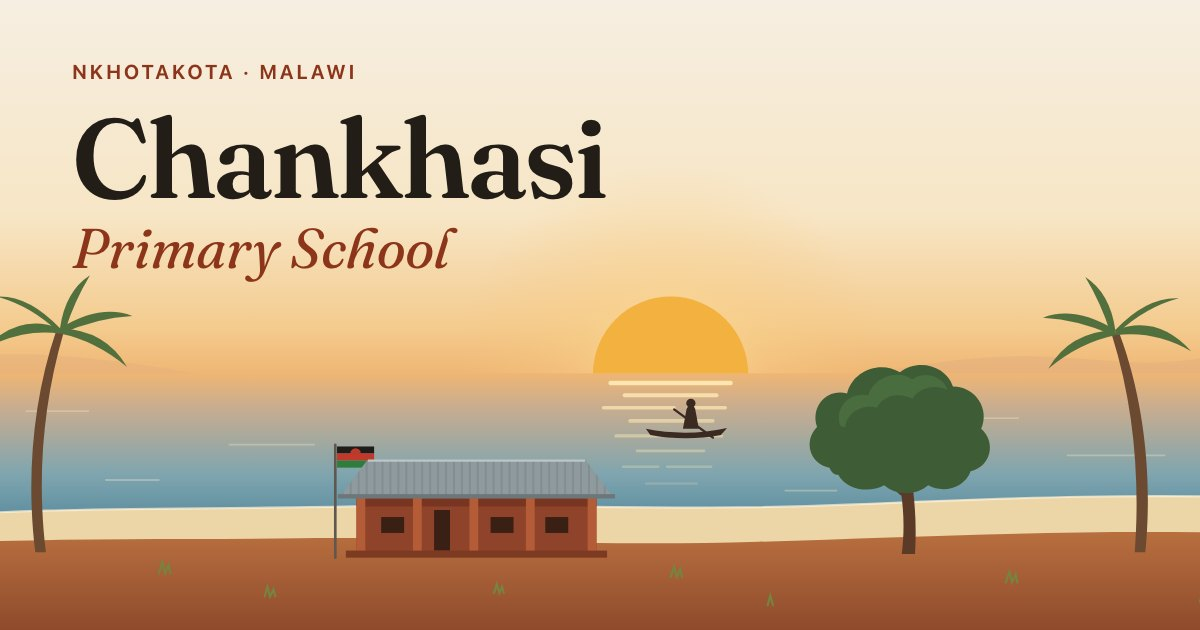
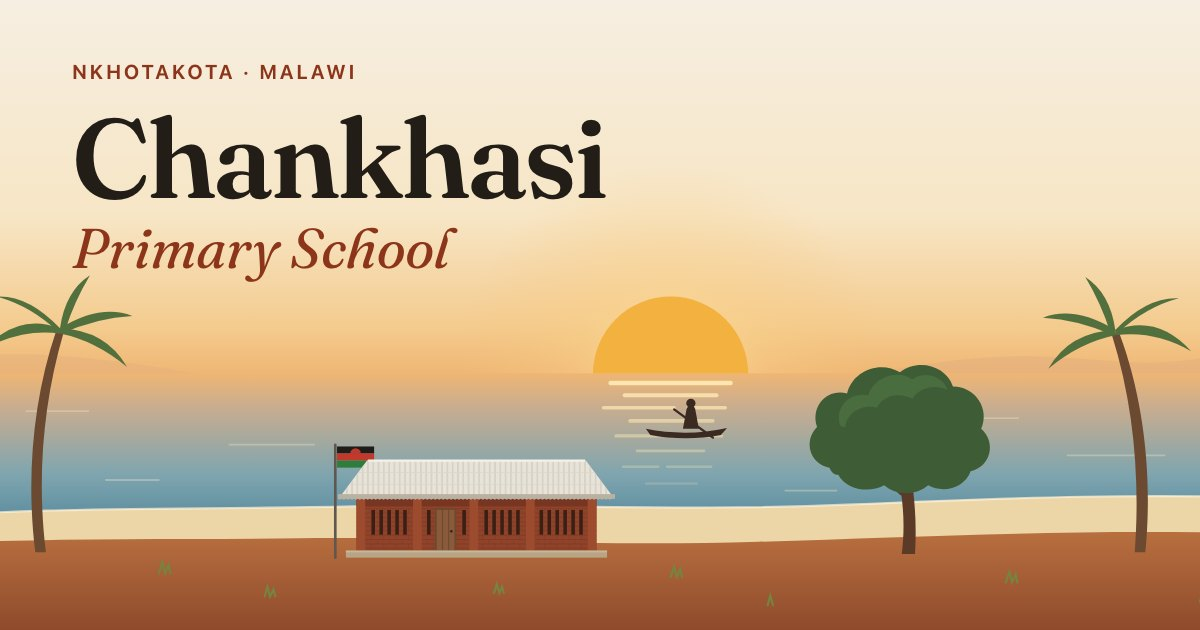
Andrew's story, extended timeline and true-to-life illustrations
Open the story with Father Andrew Banda as a boy with a dream, extend the
timeline to Canon Hunter Secondary School and the boarding houses, drop
the teachers' houses (a different Chankhazi), and update friends and
contacts from the school's own pages. Redraw the buildings in all five
illustrations to match the real school: pale fibre-cement roofs, exposed
brick with ventilation slots, brick-framed blackboards, painted times
tables and blue chairs.

Changed region(s): [[0.2775, 0.7238, 0.5242, 0.9048]]

diff --git a/index.html b/index.html
@@ -23,8 +23,8 @@
 <meta name="twitter:card" content="summary_large_image">
 <script>document.documentElement.className += " js";</script>
 <link rel="preload" href="assets/fonts/fraunces.woff2" as="font" type="font/woff2" crossorigin>
-<link rel="stylesheet" href="assets/site.css?v=9">
-<script src="assets/site.js?v=9" defer></script>
+<link rel="stylesheet" href="assets/site.css?v=10">
+<script src="assets/site.js?v=10" defer></script>
 </head>
 <body>
 <a class="skip" href="#main">Skip to content</a>
@@ -63,131 +63,7 @@
     </p>
   </div>
   <div class="hero-art" aria-hidden="true">
-    <svg viewBox="0 380 1600 520" preserveAspectRatio="xMidYMax slice" focusable="false">
-      <defs>
-        <radialGradient id="h-glow" cx="880" cy="610" r="240" gradientUnits="userSpaceOnUse">
-          <stop offset="0" stop-color="#fde3a6" stop-opacity=".95"/>
-          <stop offset=".45" stop-color="#f9cf86" stop-opacity=".42"/>
-          <stop offset="1" stop-color="#f6c47a" stop-opacity="0"/>
-        </radialGradient>
-        <linearGradient id="h-lake" x1="0" y1="609" x2="0" y2="800" gradientUnits="userSpaceOnUse">
-          <stop offset="0" stop-color="#efb674"/>
-          <stop offset=".2" stop-color="#c9ad8f"/>
-          <stop offset=".6" stop-color="#7fa5af"/>
-          <stop offset="1" stop-color="#4b8198"/>
-        </linearGradient>
-        <linearGradient id="h-ground" x1="0" y1="790" x2="0" y2="900" gradientUnits="userSpaceOnUse">
-          <stop offset="0" stop-color="#b86f3f"/>
-          <stop offset="1" stop-color="#8e4a2b"/>
-        </linearGradient>
-        <pattern id="h-corr" width="9" height="40" patternUnits="userSpaceOnUse">
-          <path d="M4.5 0v40" stroke="#7d888c" stroke-width="1.6"/>
-        </pattern>
-      </defs>
-
-      <g class="h-sun">
-        <circle cx="880" cy="610" r="240" fill="url(#h-glow)"/>
-        <circle cx="880" cy="610" r="88" fill="#f3b140"/>
-      </g>
-      <g class="h-birds" fill="none" stroke="#7a6452" stroke-width="2.4" stroke-linecap="round" stroke-linejoin="round">
-        <path d="M612 468q9-8 18 0q9-8 18 0"/>
-        <path d="M662 492q6-5 12 0q6-5 12 0"/>
-        <path d="M1226 452q8-7 16 0q8-7 16 0"/>
-      </g>
-
-      <path fill="#e2ad80" opacity=".5" d="M1100 610c64-10 124-22 196-20s112 12 172 4 96-12 132-8v24z"/>
-      <path fill="#e2ad80" opacity=".4" d="M0 598c64-8 126-14 196-8s104 12 150 20H0z"/>
-
-      <rect x="0" y="609" width="1600" height="200" fill="url(#h-lake)"/>
-
-      <g class="h-glitter" fill="none" stroke="#fde8b2" stroke-linecap="round">
-        <path d="M812 620h136" stroke-width="5" opacity=".95"/>
-        <path d="M828 634h104" stroke-width="4.5" opacity=".85"/>
-        <path d="M804 648h80M900 648h42" stroke-width="4" opacity=".72"/>
-        <path d="M834 663h94" stroke-width="4" opacity=".6"/>
-        <path d="M818 680h50M882 680h56" stroke-width="3.5" opacity=".48"/>
-        <path d="M842 697h76" stroke-width="3" opacity=".38"/>
-        <path d="M826 715h40M876 715h50" stroke-width="3" opacity=".28"/>
-        <path d="M852 734h58" stroke-width="2.5" opacity=".2"/>
-      </g>
-      <g fill="none" stroke="#f8e4c2" stroke-linecap="round" stroke-width="2" opacity=".35">
-        <path d="M150 652h70M380 690h96M1190 660h84M1330 702h110M600 748h64M1010 742h58M240 730h60"/>
-      </g>
-
-      <g class="h-canoe" fill="#3b2a21">
-        <path d="M852 672c30 6 62 6 92-1l-7 8c-26 5-54 5-80 0z"/>
-        <path d="M894 672l4-22c1-5 9-5 10 0l4 22z"/>
-        <circle cx="903" cy="643" r="5.2"/>
-        <path d="M884 650l44 32" fill="none" stroke="#3b2a21" stroke-width="2.6" stroke-linecap="round"/>
-      </g>
-
-      <path fill="#ecd5a6" d="M0 774c160-14 330-10 520-14s380 6 560-2 360-14 520-6v60H0z"/>
-      <path fill="none" stroke="#fff4dc" stroke-width="2.5" opacity=".7" d="M0 774c160-14 330-10 520-14s380 6 560-2 360-14 520-6"/>
-      <path fill="url(#h-ground)" d="M0 806c140-12 300-8 460-10s320 10 520 4 380-16 620-8v108H0z"/>
-
-      <g class="h-palm">
-        <path fill="#6b4a31" d="M160 812c-10-80-4-170 24-252l8 3c-24 82-30 168-20 249z"/>
-        <g fill="#52703d">
-          <path d="M188 558q-48-18-86 24q42-24 86-18z"/>
-          <path d="M188 558q-36-38-72-36q38 10 70 40z"/>
-          <path d="M188 558q6-42 34-60q-18 30-28 62z"/>
-          <path d="M188 558q46-28 82-14q-40 2-80 20z"/>
-          <path d="M188 558q52 2 76 44q-36-30-76-38z"/>
-        </g>
-      </g>
-      <g class="h-palm">
-        <path fill="#6b4a31" d="M1418 812c8-80 0-170-30-250l-8 3c26 82 32 168 26 247z"/>
-        <g fill="#52703d">
-          <path d="M1384 560q48-18 86 24q-42-24-86-18z"/>
-          <path d="M1384 560q36-38 72-36q-38 10-70 40z"/>
-          <path d="M1384 560q-6-42-34-60q18 30 28 62z"/>
-          <path d="M1384 560q-46-28-82-14q40 2 80 20z"/>
-          <path d="M1384 560q-52 2-76 44q36-30 76-38z"/>
-        </g>
-      </g>
-
-      <g class="h-tree">
-        <path fill="#5b3b27" d="M1142 814c4-32 2-64-6-96l15-2c6 32 8 66 6 98z"/>
-        <path d="M1142 744l-28-26M1148 732l24-24" stroke="#5b3b27" stroke-width="7" stroke-linecap="round"/>
-        <path fill="#3e5d36" d="M1060 716c-22-4-30-30-14-46-8-24 12-44 34-38 6-26 38-38 60-24 20-16 52-8 60 16 26 0 42 26 32 48 18 16 10 44-12 48-6 18-30 26-48 16-14 12-36 12-50 0-18 10-44 4-52-12-6 0-8-4-10-8z"/>
-        <path fill="#4c7042" opacity=".85" d="M1072 668c-6-22 12-38 32-34 6-20 32-30 50-18 14-10 34-4 40 12-18-8-34 0-40 10-14-8-34-4-40 10-18-4-34 6-36 22-4 0-5-1-6-2z"/>
-      </g>
-
-      <g class="h-flag">
-        <path d="M500 818V690" stroke="#5f5750" stroke-width="3" stroke-linecap="round"/>
-        <rect x="502" y="692" width="42" height="8" fill="#1f1c1a"/>
-        <path d="M517 700a6 6 0 0 1 12 0z" fill="#c1392b"/>
-        <rect x="502" y="700" width="42" height="8" fill="#c1392b"/>
-        <rect x="502" y="708" width="42" height="8" fill="#2f7d3c"/>
-      </g>
-
-      <g class="h-school">
-        <rect x="524" y="744" width="272" height="68" fill="#8f432a"/>
-        <g fill="#3a1f15">
-          <rect x="552" y="772" width="26" height="18"/>
-          <rect x="612" y="764" width="18" height="46"/>
-          <rect x="676" y="772" width="26" height="18"/>
-          <rect x="738" y="772" width="26" height="18"/>
-        </g>
-        <rect x="524" y="751" width="272" height="9" fill="#5e2616" opacity=".45"/>
-        <g fill="#b45c37">
-          <rect x="524" y="748" width="10" height="64"/>
-          <rect x="588" y="748" width="10" height="64"/>
-          <rect x="652" y="748" width="10" height="64"/>
-          <rect x="716" y="748" width="10" height="64"/>
-          <rect x="786" y="748" width="10" height="64"/>
-        </g>
-        <path d="M506 748h308l-30-40H536z" fill="#8f9a9e"/>
-        <path d="M506 748h308l-30-40H536z" fill="url(#h-corr)"/>
-        <path d="M537 708h246" stroke="#bcc5c7" stroke-width="2.5"/>
-        <rect x="503" y="746" width="314" height="5" fill="#6d777a"/>
-        <rect x="512" y="810" width="296" height="8" fill="#7d3a22"/>
-      </g>
-
-      <g fill="none" stroke="#76843f" stroke-width="2.4" stroke-linecap="round">
-        <path d="M300 836l4-13 3 13 4-10 2 10M420 862l3-11 3 11 4-8 2 8M880 840l4-12 3 12 4-9 2 9M990 872l3-11 3 11M1260 846l4-12 3 12 4-9 2 9M1480 868l3-11 3 11 3-8 2 8M84 858l4-12 3 12M680 858l3-10 3 10 3-7 2 7"/>
-      </g>
-    </svg>
+    <svg viewBox="0 380 1600 520" preserveAspectRatio="xMidYMax slice" focusable="false"><defs><radialGradient id="h-glow" cx="880" cy="610" r="240" gradientUnits="userSpaceOnUse"><stop offset="0" stop-color="#fde3a6" stop-opacity=".95"/><stop offset=".45" stop-color="#f9cf86" stop-opacity=".42"/><stop offset="1" stop-color="#f6c47a" stop-opacity="0"/></radialGradient><linearGradient id="h-lake" x1="0" y1="609" x2="0" y2="800" gradientUnits="userSpaceOnUse"><stop offset="0" stop-color="#efb674"/><stop offset=".2" stop-color="#c9ad8f"/><stop offset=".6" stop-color="#7fa5af"/><stop offset="1" stop-color="#4b8198"/></linearGradient><linearGradient id="h-ground" x1="0" y1="790" x2="0" y2="900" gradientUnits="userSpaceOnUse"><stop offset="0" stop-color="#b86f3f"/><stop offset="1" stop-color="#8e4a2b"/></linearGradient><pattern id="h-corr" width="6" height="40" patternUnits="userSpaceOnUse"><path d="M3 0v40" stroke="#cfc9bb" stroke-width="1.3"/></pattern></defs><g class="h-sun"><circle cx="880" cy="610" r="240" fill="url(#h-glow)"/><circle cx="880" cy="610" r="88" fill="#f3b140"/></g><g class="h-birds" fill="none" stroke="#7a6452" stroke-width="2.4" stroke-linecap="round" stroke-linejoin="round"><path d="M612 468q9-8 18 0q9-8 18 0"/><path d="M662 492q6-5 12 0q6-5 12 0"/><path d="M1226 452q8-7 16 0q8-7 16 0"/></g><path fill="#e2ad80" opacity=".5" d="M1100 610c64-10 124-22 196-20s112 12 172 4 96-12 132-8v24z"/><path fill="#e2ad80" opacity=".4" d="M0 598c64-8 126-14 196-8s104 12 150 20H0z"/><rect x="0" y="609" width="1600" height="200" fill="url(#h-lake)"/><g class="h-glitter" fill="none" stroke="#fde8b2" stroke-linecap="round"><path d="M812 620h136" stroke-width="5" opacity=".95"/><path d="M828 634h104" stroke-width="4.5" opacity=".85"/><path d="M804 648h80M900 648h42" stroke-width="4" opacity=".72"/><path d="M834 663h94" stroke-width="4" opacity=".6"/><path d="M818 680h50M882 680h56" stroke-width="3.5" opacity=".48"/><path d="M842 697h76" stroke-width="3" opacity=".38"/><path d="M826 715h40M876 715h50" stroke-width="3" opacity=".28"/><path d="M852 734h58" stroke-width="2.5" opacity=".2"/></g><g fill="none" stroke="#f8e4c2" stroke-linecap="round" stroke-width="2" opacity=".35"><path d="M150 652h70M380 690h96M1190 660h84M1330 702h110M600 748h64M1010 742h58M240 730h60"/></g><g class="h-canoe" fill="#3b2a21"><path d="M852 672c30 6 62 6 92-1l-7 8c-26 5-54 5-80 0z"/><path d="M894 672l4-22c1-5 9-5 10 0l4 22z"/><circle cx="903" cy="643" r="5.2"/><path d="M884 650l44 32" fill="none" stroke="#3b2a21" stroke-width="2.6" stroke-linecap="round"/></g><path fill="#ecd5a6" d="M0 774c160-14 330-10 520-14s380 6 560-2 360-14 520-6v60H0z"/><path fill="none" stroke="#fff4dc" stroke-width="2.5" opacity=".7" d="M0 774c160-14 330-10 520-14s380 6 560-2 360-14 520-6"/><path fill="url(#h-ground)" d="M0 806c140-12 300-8 460-10s320 10 520 4 380-16 620-8v108H0z"/><g class="h-palm"><path fill="#6b4a31" d="M160 812c-10-80-4-170 24-252l8 3c-24 82-30 168-20 249z"/><g fill="#52703d"><path d="M188 558q-48-18-86 24q42-24 86-18z"/><path d="M188 558q-36-38-72-36q38 10 70 40z"/><path d="M188 558q6-42 34-60q-18 30-28 62z"/><path d="M188 558q46-28 82-14q-40 2-80 20z"/><path d="M188 558q52 2 76 44q-36-30-76-38z"/></g></g><g class="h-palm"><path fill="#6b4a31" d="M1418 812c8-80 0-170-30-250l-8 3c26 82 32 168 26 247z"/><g fill="#52703d"><path d="M1384 560q48-18 86 24q-42-24-86-18z"/><path d="M1384 560q36-38 72-36q-38 10-70 40z"/><path d="M1384 560q-6-42-34-60q18 30 28 62z"/><path d="M1384 560q-46-28-82-14q40 2 80 20z"/><path d="M1384 560q-52 2-76 44q36-30 76-38z"/></g></g><g class="h-tree"><path fill="#5b3b27" d="M1142 814c4-32 2-64-6-96l15-2c6 32 8 66 6 98z"/><path d="M1142 744l-28-26M1148 732l24-24" stroke="#5b3b27" stroke-width="7" stroke-linecap="round"/><path fill="#3e5d36" d="M1060 716c-22-4-30-30-14-46-8-24 12-44 34-38 6-26 38-38 60-24 20-16 52-8 60 16 26 0 42 26 32 48 18 16 10 44-12 48-6 18-30 26-48 16-14 12-36 12-50 0-18 10-44 4-52-12-6 0-8-4-10-8z"/><path fill="#4c7042" opacity=".85" d="M1072 668c-6-22 12-38 32-34 6-20 32-30 50-18 14-10 34-4 40 12-18-8-34 0-40 10-14-8-34-4-40 10-18-4-34 6-36 22-4 0-5-1-6-2z"/></g><g class="h-flag"><path d="M500 818V690" stroke="#5f5750" stroke-width="3" stroke-linecap="round"/><rect x="502" y="692" width="42" height="8" fill="#1f1c1a"/><path d="M517 700a6 6 0 0 1 12 0z" fill="#c1392b"/><rect x="502" y="700" width="42" height="8" fill="#c1392b"/><rect x="502" y="708" width="42" height="8" fill="#2f7d3c"/></g><g class="h-school"><rect x="524" y="744" width="272" height="68" fill="#8f432a"/><path d="M524 762.5h272M524 767.5h272M524 772.5h272M524 777.5h272M524 782.5h272M524 787.5h272M524 792.5h272M524 797.5h272M524 802.5h272M524 807.5h272" stroke="#7a3520" stroke-width="1" opacity=".55"/><path d="M527 762.5v5M541 762.5v5M555 762.5v5M569 762.5v5M583 762.5v5M597 762.5v5M611 762.5v5M625 762.5v5M639 762.5v5M653 762.5v5M667 762.5v5M681 762.5v5M695 762.5v5M709 762.5v5M723 762.5v5M737 762.5v5M751 762.5v5M765 762.5v5M779 762.5v5M793 762.5v5M534 767.5v5M548 767.5v5M562 767.5v5M576 767.5v5M590 767.5v5M604 767.5v5M618 767.5v5M632 767.5v5M646 767.5v5M660 767.5v5M674 767.5v5M688 767.5v5M702 767.5v5M716 767.5v5M730 767.5v5M744 767.5v5M758 767.5v5M772 767.5v5M786 767.5v5M527 772.5v5M541 772.5v5M555 772.5v5M569 772.5v5M583 772.5v5M597 772.5v5M611 772.5v5M625 772.5v5M639 772.5v5M653 772.5v5M667 772.5v5M681 772.5v5M695 772.5v5M709 772.5v5M723 772.5v5M737 772.5v5M751 772.5v5M765 772.5v5M779 772.5v5M793 772.5v5M534 777.5v5M548 777.5v5M562 777.5v5M576 777.5v5M590 777.5v5M604 777.5v5M618 777.5v5M632 777.5v5M646 777.5v5M660 777.5v5M674 777.5v5M688 777.5v5M702 777.5v5M716 777.5v5M730 777.5v5M744 777.5v5M758 777.5v5M772 777.5v5M786 777.5v5M527 782.5v5M541 782.5v5M555 782.5v5M569 782.5v5M583 782.5v5M597 782.5v5M611 782.5v5M625 782.5v5M639 782.5v5M653 782.5v5M667 782.5v5M681 782.5v5M695 782.5v5M709 782.5v5M723 782.5v5M737 782.5v5M751 782.5v5M765 782.5v5M779 782.5v5M793 782.5v5M534 787.5v5M548 787.5v5M562 787.5v5M576 787.5v5M590 787.5v5M604 787.5v5M618 787.5v5M632 787.5v5M646 787.5v5M660 787.5v5M674 787.5v5M688 787.5v5M702 787.5v5M716 787.5v5M730 787.5v5M744 787.5v5M758 787.5v5M772 787.5v5M786 787.5v5M527 792.5v5M541 792.5v5M555 792.5v5M569 792.5v5M583 792.5v5M597 792.5v5M611 792.5v5M625 792.5v5M639 792.5v5M653 792.5v5M667 792.5v5M681 792.5v5M695 792.5v5M709 792.5v5M723 792.5v5M737 792.5v5M751 792.5v5M765 792.5v5M779 792.5v5M793 792.5v5M534 797.5v5M548 797.5v5M562 797.5v5M576 797.5v5M590 797.5v5M604 797.5v5M618 797.5v5M632 797.5v5M646 797.5v5M660 797.5v5M674 797.5v5M688 797.5v5M702 797.5v5M716 797.5v5M730 797.5v5M744 797.5v5M758 797.5v5M772 797.5v5M786 797.5v5M527 802.5v5M541 802.5v5M555 802.5v5M569 802.5v5M583 802.5v5M597 802.5v5M611 802.5v5M625 802.5v5M639 802.5v5M653 802.5v5M667 802.5v5M681 802.5v5M695 802.5v5M709 802.5v5M723 802.5v5M737 802.5v5M751 802.5v5M765 802.5v5M779 802.5v5M793 802.5v5" stroke="#7a3520" stroke-width="1" opacity=".35"/><rect x="524" y="751" width="272" height="9" fill="#5e2616" opacity=".45"/><g fill="#9c4b2e"><rect x="524" y="748" width="10" height="64"/><rect x="588" y="748" width="10" height="64"/><rect x="652" y="748" width="10" height="64"/><rect x="716" y="748" width="10" height="64"/><rect x="786" y="748" width="10" height="64"/></g><g fill="#3a1f15"><rect x="541" y="764" width="4" height="28"/><rect x="550" y="764" width="4" height="28"/><rect x="559" y="764" width="4" height="28"/><rect x="568" y="764" width="4" height="28"/><rect x="577" y="764" width="4" height="28"/><rect x="669" y="764" width="4" height="28"/><rect x="678" y="764" width="4" height="28"/><rect x="687" y="764" width="4" height="28"/><rect x="696" y="764" width="4" height="28"/><rect x="705" y="764" width="4" height="28"/><rect x="731.5" y="764" width="4" height="28"/><rect x="740.5" y="764" width="4" height="28"/><rect x="749.5" y="764" width="4" height="28"/><rect x="758.5" y="764" width="4" height="28"/><rect x="767.5" y="764" width="4" height="28"/><rect x="776.5" y="764" width="4" height="28"/><rect x="604" y="764" width="4" height="28"/><rect x="644" y="764" width="4" height="28"/></g><rect x="613" y="762" width="24" height="48" fill="#6b4a31"/><rect x="615" y="764" width="20" height="46" fill="#8a5a3a"/><path d="M621.5 764v46M628.5 764v46" stroke="#6b4a31" stroke-width="1.2"/><circle cx="631.5" cy="788" r="1.4" fill="#3a1f15"/><path d="M506 748h308l-30-40H536z" fill="#e7e3d9"/><path d="M506 748h308l-30-40H536z" fill="url(#h-corr)"/><path d="M526 721.5h268M516 735h288" stroke="#dbd6ca" stroke-width=".9"/><path d="M537 708h246" stroke="#f4f1ea" stroke-width="2.5"/><rect x="503" y="746" width="314" height="5" fill="#b9b2a3"/><path d="M503 751q2.3 2.6 4.5 0q2.3 2.6 4.5 0q2.3 2.6 4.5 0q2.3 2.6 4.5 0q2.3 2.6 4.5 0q2.3 2.6 4.5 0q2.3 2.6 4.5 0q2.3 2.6 4.5 0q2.3 2.6 4.5 0q2.3 2.6 4.5 0q2.3 2.6 4.5 0q2.3 2.6 4.5 0q2.3 2.6 4.5 0q2.3 2.6 4.5 0q2.3 2.6 4.5 0q2.3 2.6 4.5 0q2.3 2.6 4.5 0q2.3 2.6 4.5 0q2.3 2.6 4.5 0q2.3 2.6 4.5 0q2.3 2.6 4.5 0q2.3 2.6 4.5 0q2.3 2.6 4.5 0q2.3 2.6 4.5 0q2.3 2.6 4.5 0q2.3 2.6 4.5 0q2.3 2.6 4.5 0q2.3 2.6 4.5 0q2.3 2.6 4.5 0q2.3 2.6 4.5 0q2.3 2.6 4.5 0q2.3 2.6 4.5 0q2.3 2.6 4.5 0q2.3 2.6 4.5 0q2.3 2.6 4.5 0q2.3 2.6 4.5 0q2.3 2.6 4.5 0q2.3 2.6 4.5 0q2.3 2.6 4.5 0q2.3 2.6 4.5 0q2.3 2.6 4.5 0q2.3 2.6 4.5 0q2.3 2.6 4.5 0q2.3 2.6 4.5 0q2.3 2.6 4.5 0q2.3 2.6 4.5 0q2.3 2.6 4.5 0q2.3 2.6 4.5 0q2.3 2.6 4.5 0q2.3 2.6 4.5 0q2.3 2.6 4.5 0q2.3 2.6 4.5 0q2.3 2.6 4.5 0q2.3 2.6 4.5 0q2.3 2.6 4.5 0q2.3 2.6 4.5 0q2.3 2.6 4.5 0q2.3 2.6 4.5 0q2.3 2.6 4.5 0q2.3 2.6 4.5 0q2.3 2.6 4.5 0q2.3 2.6 4.5 0q2.3 2.6 4.5 0q2.3 2.6 4.5 0q2.3 2.6 4.5 0q2.3 2.6 4.5 0q2.3 2.6 4.5 0q2.3 2.6 4.5 0q2.3 2.6 4.5 0H817v-1H503z" fill="#b9b2a3"/><rect x="512" y="810" width="296" height="8" fill="#b8a585"/><rect x="512" y="810" width="296" height="2" fill="#c9b79a"/></g><g fill="none" stroke="#76843f" stroke-width="2.4" stroke-linecap="round"><path d="M300 836l4-13 3 13 4-10 2 10M420 862l3-11 3 11 4-8 2 8M880 840l4-12 3 12 4-9 2 9M990 872l3-11 3 11M1260 846l4-12 3 12 4-9 2 9M1480 868l3-11 3 11 3-8 2 8M84 858l4-12 3 12M680 858l3-10 3 10 3-7 2 7"/></g></svg>
   </div>
 </section>
 
@@ -198,7 +74,7 @@
       <h2 id="about-title"><span class="chichewa" lang="ny">Takulandirani.</span> Welcome.</h2>
       <p class="lead">Chankhasi Primary School is a community school in Nkhandwe Village, a short walk from the shore of Lake Malawi and about 15&nbsp;km south of Nkhotakota town in central Malawi.</p>
       <p>It began because the young children here had nowhere close by to learn. The nearest primary school was more than 6&nbsp;km away, and in the rainy season the rivers on the way were too dangerous for them to cross.</p>
-      <p>Local leaders gave the village a plot of land, and the first lessons were held in a small church and under the trees. Since building began in 2009 the school has grown one classroom at a time, with the community and friends from near and far all playing their part. Today it has more than 300 pupils and eight teachers.</p>
+      <p>After talks with local leaders the village was given a plot of land, and the first lessons were held in a small church and under the trees. Since building began in 2009 the school has grown one classroom at a time, with the community and friends from near and far all playing their part. Today it has more than 300 pupils and eight teachers.</p>
       <dl class="stats">
         <div class="stat"><dt>pupils</dt><dd>300+</dd></div>
         <div class="stat"><dt>teachers</dt><dd>8</dd></div>
@@ -221,7 +97,19 @@
       <p class="eyebrow">Our story</p>
       <h2 id="story-title">Built brick by brick</h2>
       <p class="proverb"><span class="chichewa tbc" lang="ny" data-note="A well-known Chichewa proverb (Chakanza, 2000 Chinyanja Proverbs, No. 1302). Does the school write it joined like this, or as Pang’ono pang’ono?">Pang’onopang’ono ndi mtolo.</span> <span class="gloss">Little by little makes a bundle.</span></p>
-      <p class="lead">Chankhasi has never been built all at once. Every classroom stands because someone chose to help, from families in the villages to friends on the other side of the world.</p>
+    </div>
+    <div class="split story-opening">
+      <div class="story-intro">
+        <p><span class="tbc" data-note="No published source for this yet. Did Andrew grow up in Nkhandwe Village, and was a school close to home his dream as a boy? Was the nearest school still more than 6 km away when he was small? News reports only say he is based there now.">Andrew Banda grew up in Nkhandwe Village, near the shore of Lake Malawi. As a boy, he had a big dream: a school close to home.</span> Before Chankhasi, the nearest primary school was more than 6 km away, so many of the village’s young children were not going to school. It was a long walk for small legs, and in the rainy season the rivers were too dangerous for them to cross.</p>
+        <p>The people of Nkhandwe talked the problem over with local leaders, and the village was given a plot of land for a school. The first building had mud walls and a grass roof. On weekdays it was a school, and at weekends it was an Anglican church. <span class="tbc" data-note="No source yet. What part did Andrew play in these early days? Was he on the first school committee, or one of the first teachers? Roughly what year was this?">Andrew was part of it from the start.</span></p>
+        <p>Little by little, the school grew. A new school committee rebuilt the church in brick. In June 2009 building began on the first classroom, and supporters sponsored its roof trusses one by one. By 2016 there were seven classrooms, 377 pupils and seven teachers, <span class="tbc" data-note="The school's 2016 website lists an Andrew Banda among its seven teachers, but does not say he is the founder. Is this the same Andrew?">and Andrew was one of those teachers</span>.</p>
+        <p>The dream kept growing. Chankhasi now has its own secondary school, Canon Hunter Secondary School, so pupils can carry on to Form 4 without leaving the school family. There are <span class="tbc" data-note="Lancing College helped build a girls' boarding house in 2024, and the school's Facebook page mentions accommodation and 'two villages' for students. Is there a boys' boarding house too?">boarding houses for girls and boys</span>, a clinic run by Andrew that also serves the whole community, and solar power day and night.</p>
+        <p>Today, Andrew is the Very Reverend Father Andrew Malovu Banda. He is the Founder and Director of Chankhasi Private Schools, and Dean of the Anglican Diocese of Lake Malawi, at All Saints Cathedral in Nkhotakota. He has said that building a better Malawi is a shared responsibility. Chankhasi shows what that looks like: a school built by many hands, near and far.</p>
+      </div>
+      <figure class="photo illustration">
+        <img src="assets/img/illustrations/dream.svg" width="1200" height="800" alt="Illustration of a young village boy in a yellow T-shirt sitting on a rock under a mango tree at sunrise, scratching the outline of a school into the red earth with a stick, while the school he dreams of appears on a cloud above the lake." loading="lazy" decoding="async">
+        <figcaption>Where it all began: a boy with a big dream.</figcaption>
+      </figure>
     </div>
     <figure class="photo photo--banner">
       <img src="assets/img/photos/classrooms-1200.webp" srcset="assets/img/photos/classrooms-800.webp 800w, assets/img/photos/classrooms-1200.webp 1200w, assets/img/photos/classrooms-1600.webp 1600w" sizes="(min-width: 1184px) 1120px, 94vw" width="1600" height="640" alt="Three brick classroom blocks with pale roofs around a sandy school yard, with trees behind" loading="lazy" decoding="async">
@@ -232,47 +120,72 @@
         <li>
           <span class="year">The beginning</span>
           <h3>A church and a school</h3>
-          <p>Local leaders give the people of Nkhandwe Village a plot of land. Its first building, with mud walls and a grass roof, is a school on weekdays and an Anglican church at weekends.</p>
+          <p>After talks with local leaders, the people of Nkhandwe Village are given a plot of land for a school. Its first building, with mud walls and a grass roof, is a school on weekdays and an Anglican church at weekends.</p>
         </li>
         <li>
           <span class="year">Early days</span>
-          <h3>Brick walls and a first teacher</h3>
-          <p>A new school committee rebuilds the church with brick walls and a tiled roof, and takes on a first teacher, paid for by visitors’ monthly gifts. Lessons are held in the church and under the surrounding trees.</p>
+          <h3>Brick walls and a teacher</h3>
+          <p>A newly formed school committee rebuilds the church with brick walls and a tiled roof, and employs a teacher, whose salary is paid by visitors’ monthly gifts. Lessons are held in the church and under the surrounding trees.</p>
         </li>
         <li>
           <span class="year">2008</span>
-          <h3>Plans for a full primary school</h3>
-          <p>The committee draws up plans for a full primary school, and an architect checks them before any building starts.</p>
+          <h3>Planning the school’s future</h3>
+          <p>The school committee plans the school’s future, and an architect checks the plans before any building starts.</p>
         </li>
         <li>
           <span class="year">2009</span>
           <h3>The first classroom</h3>
-          <p>Building begins in June. Supporters sponsor the roof trusses one by one, among them pupils at Morna International College in Ibiza, who raised money with weekly biscuit sales. When the first classroom is finished, the school holds an open day for local leaders, education officials, parents and pupils.</p>
+          <p>Building begins in June. Supporters sponsor the roof trusses one by one, among them pupils at Morna International College in Ibiza, who raise money with weekly biscuit sales. When the first classroom is finished, the school holds an open day for local leaders, education officials, parents and pupils.</p>
         </li>
         <li>
-          <span class="year tbc" data-note="Open Arms Malawi said in 2016 that Kingswood had been coming for ten years.">Every summer</span>
+          <span class="year tbc" data-note="Open Arms Malawi said in 2016 that Kingswood had been coming for ten years, so from about 2006. Kingswood itself has said 'since 2008' (2018) and 'since its early days in a church hall 20 years ago' (2025). Which year did it start?">Every summer</span>
           <h3>Visiting builders</h3>
-          <p><span class="tbc" data-note="From Open Arms Malawi, 2016. Do they still come?">Students from Kingswood School in Bath visit through Open Arms Malawi, helping to raise new school buildings year after year.</span></p>
+          <p><span class="tbc" data-note="From Open Arms Malawi (2016) and Kingswood (2018). Kingswood still supports the school (2025), but do its students still visit every summer?">Students from Kingswood School in Bath visit through Open Arms Malawi, helping to raise new school buildings year after year.</span> Kingswood also helps to pay teachers’ salaries.</p>
         </li>
         <li>
           <span class="year">2016</span>
           <h3>Seven classrooms</h3>
-          <p>The school now has seven classrooms, a library, a staff room, a storeroom, separate toilets for boys, girls and staff, and a water tank, with 377 pupils and seven teachers.</p>
+          <p>The school now has seven classrooms, a library, a staff room, a storeroom, separate toilets for boys, girls and staff, and a water tank, with 377 pupils and seven teachers. <span class="tbc" data-note="The school's 2016 website lists an Andrew Banda among its seven teachers, but does not say he is the founder. Is this the same Andrew?">Andrew Banda is one of the teachers.</span></p>
         </li>
         <li>
-          <span class="year tbc" data-note="What year were the teachers' houses built?">[Year]</span>
-          <h3>Homes for teachers</h3>
-          <p><span class="tbc" data-note="From World Servants (Netherlands), who built teachers' houses for 'the primary school in Chankhazi'. Please confirm.">Two new houses for teachers, built with the Dutch charity World Servants, help the school attract the teachers it needs.</span></p>
+          <span class="year">2017</span>
+          <h3>Fresh paint and plaster</h3>
+          <p>Students from Ashville College in Harrogate whitewash and plaster classrooms, paint the blackboards and start building an eco-toilet. The school doors get a coat of bright blue.</p>
         </li>
         <li>
-          <span class="year tbc" data-note="Lancing's reports say this work was at Chankhasi Secondary School. Keep it on the primary school's site, or take it out?">2024</span>
-          <h3>A classroom and a boarding house</h3>
-          <p><span class="tbc" data-note="Lancing's reports say this work was at Chankhasi Secondary School. Keep it on the primary school's site, or take it out?">Students from Lancing College help build a new secondary classroom and a boarding house for girls.</span></p>
+          <span class="year">2020</span>
+          <h3>Speaking up for girls</h3>
+          <p><span class="tbc" data-note="Written by 'Andrew Banda' about 'our school' for The Young Darwinian, April 2020. Is this the same Andrew?">Andrew writes for a British website about why girls’ education matters, and how few pupils, especially girls, win a place at a government secondary school.</span> The primary school has 329 pupils.</p>
+        </li>
+        <li>
+          <span class="year tbc" data-note="Canon Hunter's first Form 4 students sat the MSCE in 2024, so Form 1 probably began in about 2020 or 2021. What year did it open?">[Year]</span>
+          <h3>A secondary school</h3>
+          <p>Canon Hunter Secondary School opens at Nkhandwe. With Chankhasi Primary School it makes up Chankhasi Private Schools, so pupils can go from Standard 1 to Form 4 in one school family.</p>
+        </li>
+        <li>
+          <span class="year">2022</span>
+          <h3>A secondary classroom</h3>
+          <p>Students from Lancing College in Sussex help to lay bricks for a new secondary classroom, and teach some of the lessons.</p>
+        </li>
+        <li>
+          <span class="year">2024</span>
+          <h3>A boarding house for girls</h3>
+          <p>A Lancing College group returns to help build a boarding house for girls at the secondary school. Canon Hunter’s first Form 4 students sit the national MSCE exams.</p>
+        </li>
+        <li>
+          <span class="year">2025</span>
+          <h3>Caring for health too</h3>
+          <p>In July, Father Andrew, Founder and Director of Chankhasi Private Schools and the Smart Village Clinic, gives medical equipment worth about US$25,000 to Nkhotakota District Hospital. A few days earlier, he gave a similar gift to St Anne’s Anglican Hospital.</p>
+        </li>
+        <li>
+          <span class="year tbc" data-note="When did the girls' and boys' boarding houses open?">[Year]</span>
+          <h3>Boarding houses for girls and boys</h3>
+          <p><span class="tbc" data-note="Lancing helped build the girls' house in 2024, and the school's Facebook page now mentions accommodation and 'two villages' for students. Is there a boys' boarding house too?">The girls’ boarding house opens, and boys have a boarding house of their own.</span> In 2025 Kingswood School in Bath reports that its gifts are helping the school to keep building a new dormitory.</p>
         </li>
         <li>
           <span class="year">Today</span>
           <h3>Chankhasi today</h3>
-          <p>More than 300 pupils learn at Chankhasi with eight teachers, and there is still more to build.</p>
+          <p>Chankhasi Private Schools brings a primary school, a secondary school, <span class="tbc" data-note="Please confirm there are boarding houses for both girls and boys.">boarding houses for girls and boys</span>, a clinic and solar power together in one place. <span class="tbc" data-note="From an undated web page about the primary school. How many pupils and teachers are there now, in the primary and in the secondary?">The primary school has more than 300 pupils and eight teachers.</span> In 2026, 78 per cent of Canon Hunter’s Form 4 students passed the MSCE, up from 74 per cent the year before. There is still more to build, led by the Founder and Director, the Very Reverend Father Andrew Malovu Banda, now Dean of the Anglican Diocese of Lake Malawi.</p>
         </li>
       </ol>
       <aside class="story-aside">
@@ -351,27 +264,22 @@
       <li>
         <strong>Kingswood School</strong>
         <span class="partner-place">Bath, with Open Arms Malawi</span>
-        <span class="tbc" data-note="Check they are still involved.">Donations, and summer building visits for more than a decade.</span>
+        Building visits over many years, and help with teachers’ salaries.
+      </li>
+      <li>
+        <strong>Lancing College</strong>
+        <span class="partner-place">Sussex</span>
+        A secondary classroom (2022) and a girls’ boarding house (2024).
       </li>
       <li>
         <strong>Ashville College</strong>
         <span class="partner-place">Harrogate</span>
-        Generous donations to the school.
+        Plastering, painting and an eco-toilet (2017), and generous donations.
       </li>
       <li>
         <strong>Morna International College</strong>
         <span class="partner-place">Ibiza</span>
         Roof trusses, paid for by weekly biscuit sales, 2009.
-      </li>
-      <li>
-        <strong>World Servants</strong>
-        <span class="partner-place">Netherlands</span>
-        <span class="tbc" data-note="From World Servants' own page, which is no longer online. Please confirm.">Two new houses for teachers.</span>
-      </li>
-      <li>
-        <strong>Lancing College</strong>
-        <span class="partner-place">Sussex</span>
-        <span class="tbc" data-note="Their work was at Chankhasi Secondary School. Keep or remove?">A new secondary classroom and a girls’ boarding house, 2024.</span>
       </li>
       <li class="partners-next">
         <strong>Could your school be next?</strong>
@@ -446,15 +354,15 @@
       <dl class="contact-details">
         <div>
           <dt>Write to us</dt>
-          <dd><span class="tbc" data-note="From the school's old website (2016). Still right?">Chankhasi Primary School<br>Nkhandwe Village<br>P.O. Box 460<br>Nkhotakota, Malawi</span></dd>
+          <dd><span class="tbc" data-note="P.O. Box 216 is from a 2025 letter to the Director of Chankhasi Schools; the school's 2016 website gave P.O. Box 460. Which is current?">Chankhasi Private Schools<br>Nkhandwe Village<br>P.O. Box 216<br>Nkhotakota, Malawi</span></dd>
         </div>
         <div>
           <dt>Email</dt>
-          <dd><span class="tbc" data-note="The address on the school's old website (2016). The domain is still registered, so it may still work. Who reads it?">donations@chankhasi-school.org</span></dd>
+          <dd><span class="tbc" data-note="From the school's Facebook page (September 2026). Is the school happy for it to be published here?">chankhasischool5@gmail.com</span></dd>
         </div>
         <div>
-          <dt>WhatsApp</dt>
-          <dd><span class="tbc" data-note="Optional. A number for visitors to message.">[number]</span></dd>
+          <dt>Phone and WhatsApp</dt>
+          <dd><span class="tbc" data-note="From the school's Facebook page (September 2026). Which number takes WhatsApp, and is the school happy to publish them?">+265 881 174 385<br>+265 990 98 04 89</span></dd>
         </div>
       </dl>
     </div>

diff --git a/assets/site.css b/assets/site.css
@@ -638,6 +638,9 @@ section:not(.hero) { padding-block: clamp(72px, 10vw, 128px); }
   margin-bottom: clamp(40px, 6vw, 64px);
 }
 .split .section-head { margin-bottom: 0; }
+.story-intro p { color: var(--ink-2); max-width: 60ch; }
+.story-intro p:first-child { font-size: clamp(1.15rem, 2.1vw, 1.3rem); line-height: 1.55; color: var(--ink); }
+.story-opening { align-items: start; }
 @media (min-width: 900px) { .split { grid-template-columns: minmax(0, 1fr) minmax(0, 1fr); } }
 @media (max-width: 700px) {
   .photo--banner img { aspect-ratio: 16 / 10; object-fit: cover; object-position: 62% 50%; }

diff --git a/404.html b/404.html
@@ -11,7 +11,7 @@
 <link rel="icon" href="assets/img/favicon.svg" type="image/svg+xml">
 <link rel="icon" href="assets/img/favicon-32.png" sizes="32x32" type="image/png">
 <link rel="apple-touch-icon" href="assets/img/apple-touch-icon.png">
-<link rel="stylesheet" href="assets/site.css?v=9">
+<link rel="stylesheet" href="assets/site.css?v=10">
 <style>
   .lost {
     min-height: 100vh;

diff --git a/README.md b/README.md
@@ -66,10 +66,12 @@ Everything below is highlighted on the draft.
 **About the school**
 - [ ] Nothing outstanding
 
-**Our story**
-- [ ] Kingswood School (Bath) summer visits through Open Arms Malawi: still happening?
-- [ ] World Servants teachers' houses: which year?
-- [ ] Lancing College, 2024: their reports say the work was at Chankhasi Secondary School. Keep it or take it out?
+**Our story** (Father Andrew's story; each gap is highlighted with a question)
+- [ ] Andrew's childhood in Nkhandwe Village, his part in the early days, and whether he is the Andrew Banda among the 2016 teachers and the author of the 2020 essay on girls' education
+- [ ] How his name and title should appear (the school's Facebook page: "The Very Reverend Father Andrew Malovu Banda", Dean of the Anglican Diocese of Lake Malawi, at All Saints Cathedral in Nkhotakota)
+- [ ] The year Canon Hunter Secondary School opened, and the girls' and boys' boarding houses
+- [ ] Kingswood's first visit year and whether students still visit every summer
+- [ ] Whether the site should speak for Chankhasi Private Schools (primary and secondary) rather than only the primary school
 
 **School life** (several lines come from the school's 2016 website)
 - [ ] The garden plot, the painted tiles and "a brick a day": still true?
@@ -82,9 +84,8 @@ Everything below is highlighted on the draft.
 - [ ] Whether online giving is wanted (the page only says to get in touch)
 
 **Contact**
-- [ ] Postal address (Nkhandwe Village, P.O. Box 460, Nkhotakota, from 2016)
-- [ ] Whether donations@chankhasi-school.org still works, and who reads it
-- [ ] WhatsApp number (optional)
+- [ ] Postal address (P.O. Box 216 in 2025, P.O. Box 460 in 2016)
+- [ ] Whether the school is happy to publish the email address and phone numbers from its Facebook page
 
 **Chichewa** (ask a Chichewa-speaking teacher to check each line; the highlight notes carry one question each)
 - [ ] The school's name, the three proverbs, "Tithandizane", "Lumikizanani nafe" and the motto translation
@@ -129,5 +130,10 @@ The current pupil and teacher numbers and the two photos were provided for the s
 - Lancing College, [Adventures in Malawi](https://www.lancingcollege.co.uk/news/adventures-malawi) and [2024 Malawi Adventures](https://www.lancingcollege.co.uk/news/2024-malawi-adventures/)
 - Open Arms Malawi, [School visitors make a lasting impression](https://www.openarmsmalawi.org/news/school-visitors-make-a-lasting-impression) (2016)
 - Morna International College, [blog, September 2009](https://mornainternationalibiza.blogspot.com/2009/09/)
-- World Servants, [Chankhazi project page](https://www.worldservants.nl/malawi/MA124) (no longer online)
+- The school's Facebook page, [Chankhasi Private Schools](https://www.facebook.com/p/Chankhasi-Private-Schools-61572417923149/) (posts from August and September 2026)
+- Anglican Diocese of Lake Malawi, [parish list](https://adlmmw.org/parishes.php)
+- Malawi24, [K43 million donation to Nkhotakota Hospital](https://malawi24.com/2025/07/18/k43-million-donation-to-boost-health-service-delivery-at-nkhotakota-hospital/) (July 2025)
+- The Young Darwinian, [Education in Malawi](https://theyoungdarwinian.com/education-in-malawi/) (April 2020)
+- Kingswood School, [2018](https://www.kingswood.bath.sch.uk/news/2018-09-05/students-carry-out-charity-work-in-malawi-during-summer) and [2025](https://community.kingswood.bath.sch.uk/news/school-news/165/165-Kingswood-Charity-Christmas-Fair) news
+- Harrogate News, [Ashville College in Malawi](https://www.harrogate-news.co.uk/2017/08/20/ashville-college-students-help-improve-lives-of-malawian-orphans/) (2017)
 - Map data: [Natural Earth](https://www.naturalearthdata.com/) (public domain)
